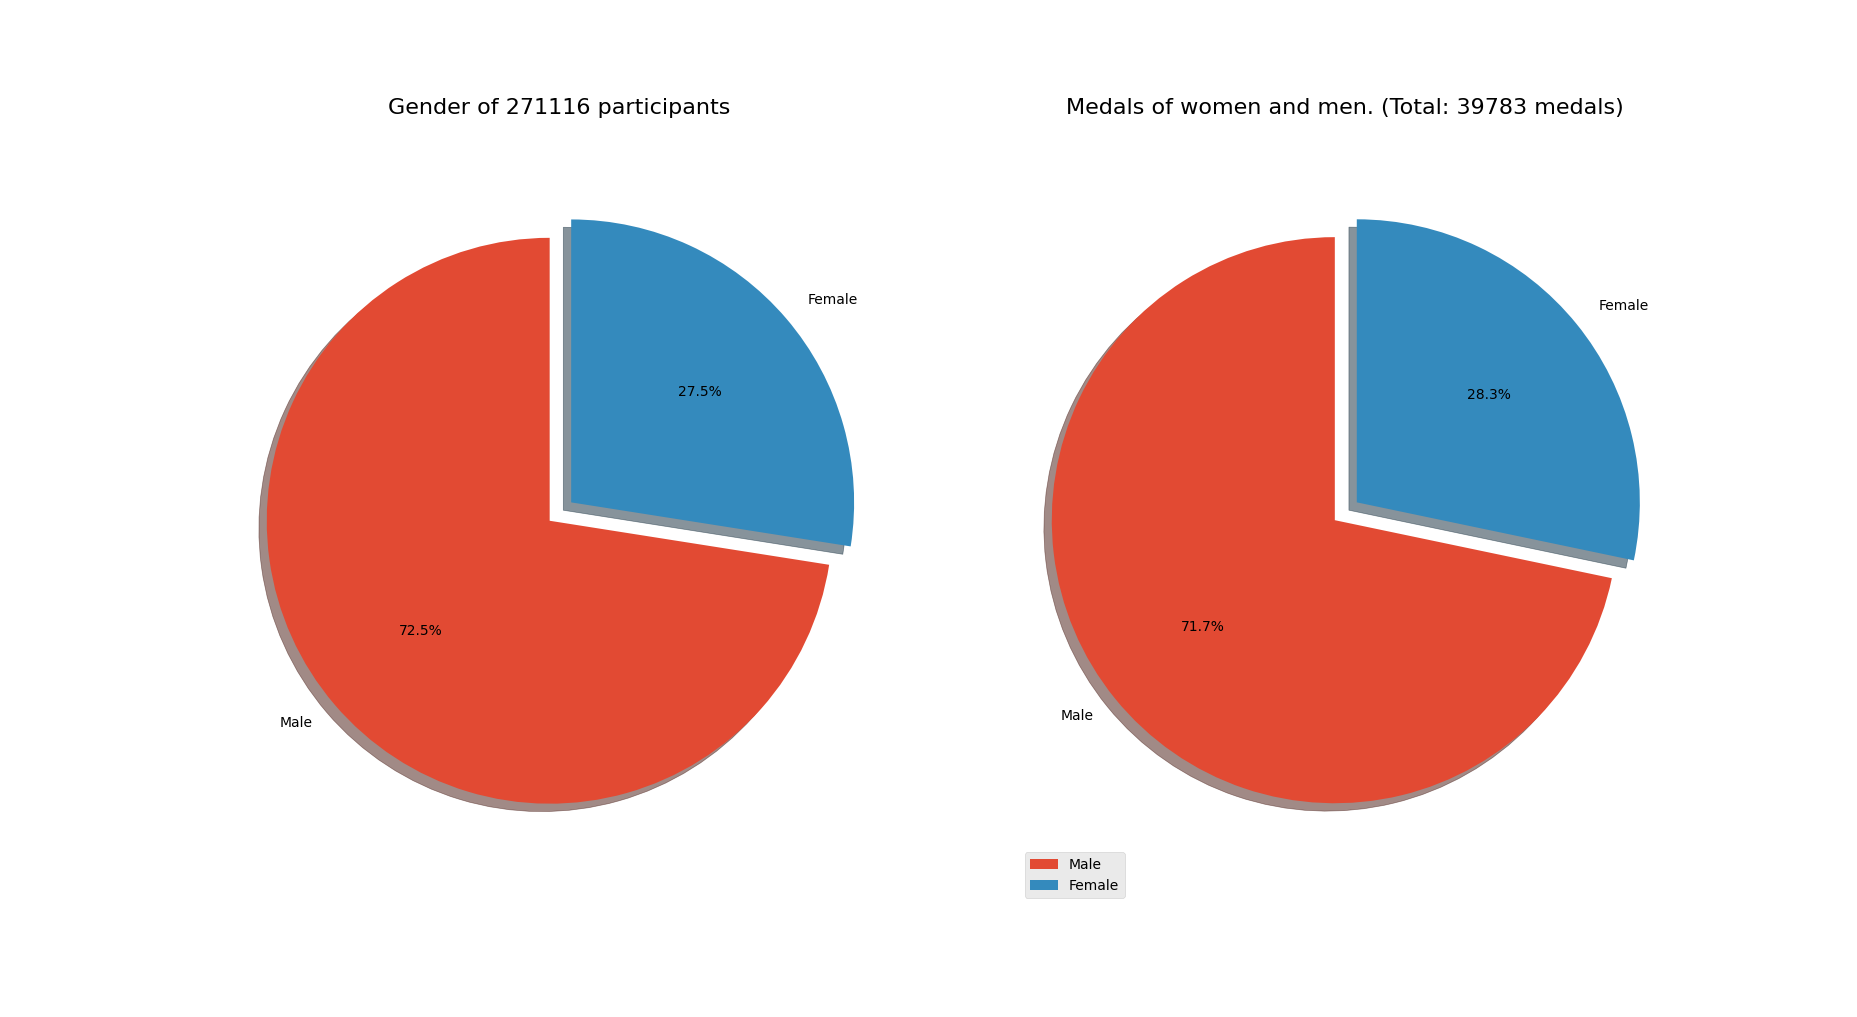
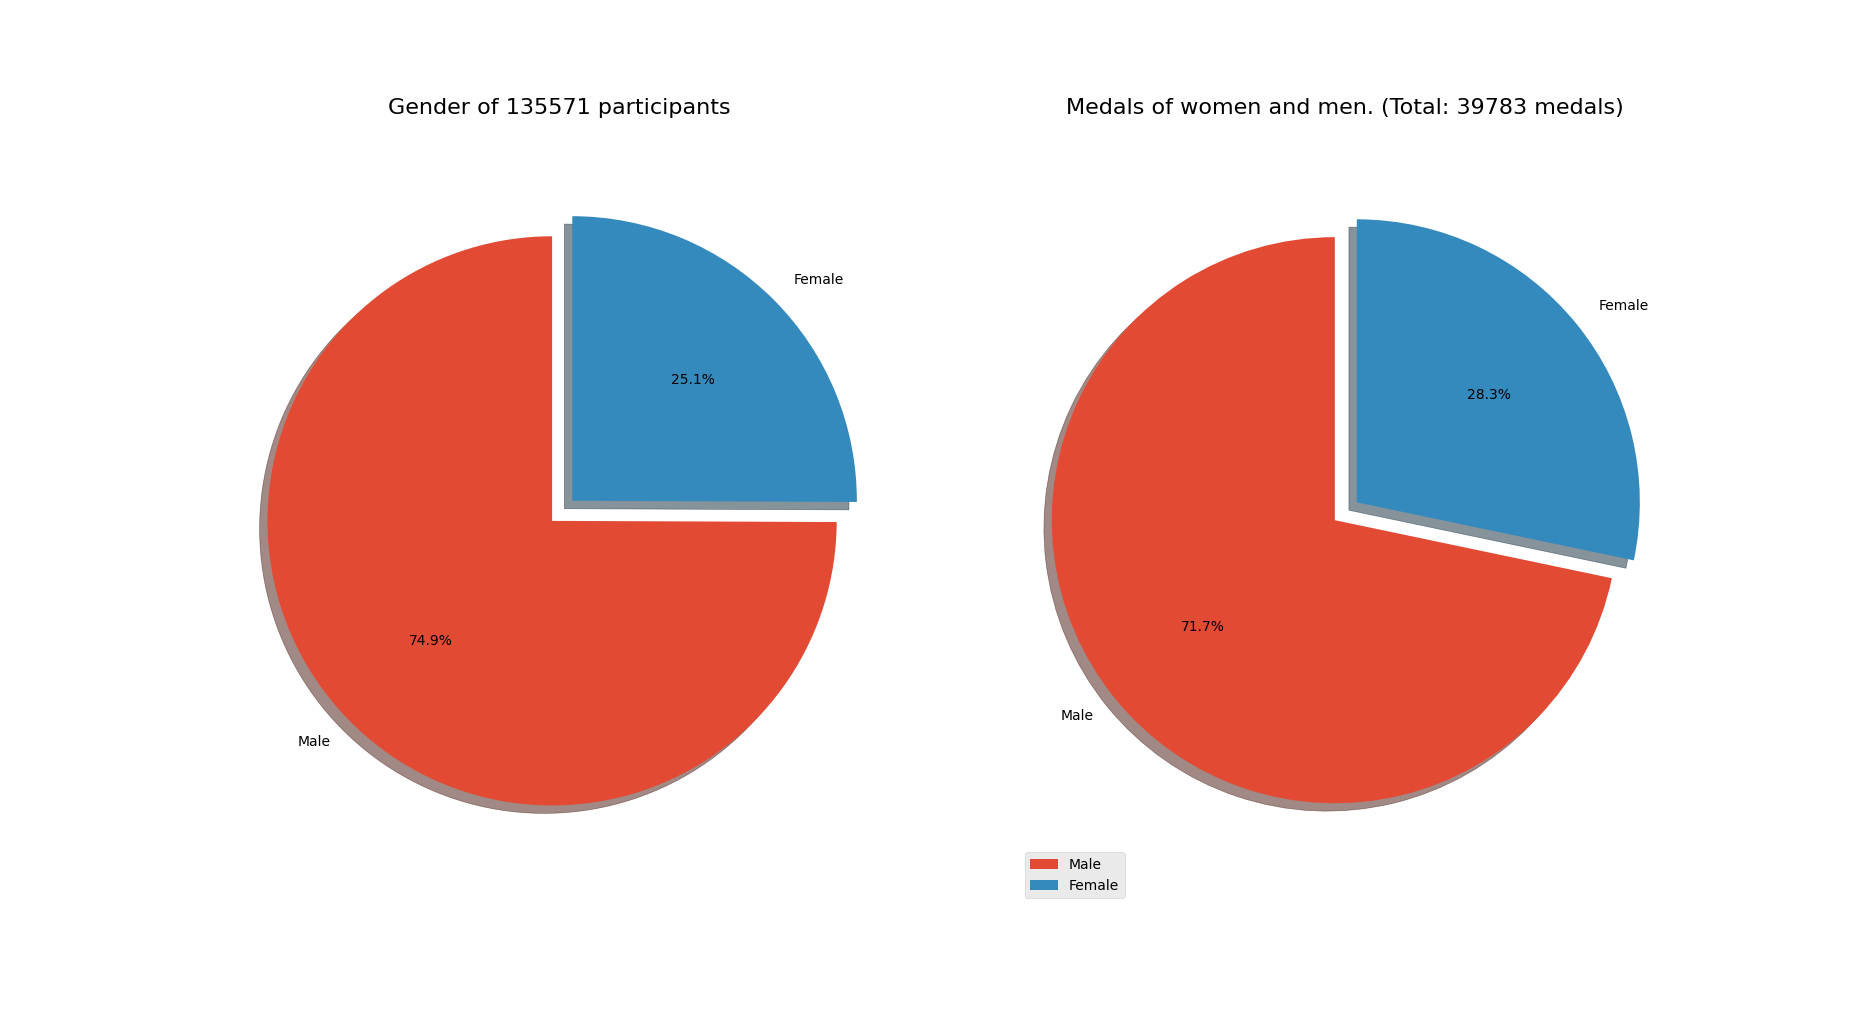
Duplicates have been removed

diff --git a/gender.py b/gender.py
@@ -1,18 +1,19 @@
 import pandas as pd
 import matplotlib.pyplot as plt
 
+
 if __name__ == '__main__':
     athlete_events = pd.read_csv('athlete_events.csv')
     labels = ('Male', 'Female')
+    athlete_events_edited = athlete_events.drop_duplicates('ID') # to count gender the objects have to be unique
 
     male = athlete_events[athlete_events['Sex'] == 'M']
     female = athlete_events[athlete_events['Sex'] == 'F']
 
     # All participants
-    male_size = male['Sex'].count()
-    female_size = female['Sex'].count()
+    male_size = athlete_events_edited[athlete_events_edited['Sex'] == 'M']['Sex'].count()
+    female_size = athlete_events_edited[athlete_events_edited['Sex'] == 'F']['Sex'].count()
     sizes = [male_size, female_size]
-    explode = (0, 0.1)
 
     # Medals
     male_medals = male[pd.notna(male['Medal'])]['Medal'].count()
@@ -22,6 +23,7 @@ if __name__ == '__main__':
     # Plot
     plt.style.use('ggplot')
     fig, (ax1, ax2) = plt.subplots(1, 2)
+    explode = (0, 0.1)
 
     ax1.pie(sizes, explode=explode, labels=labels, autopct='%1.1f%%',
             shadow=True, startangle=90)
